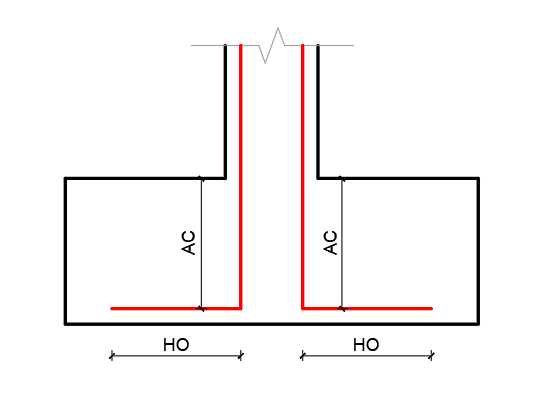
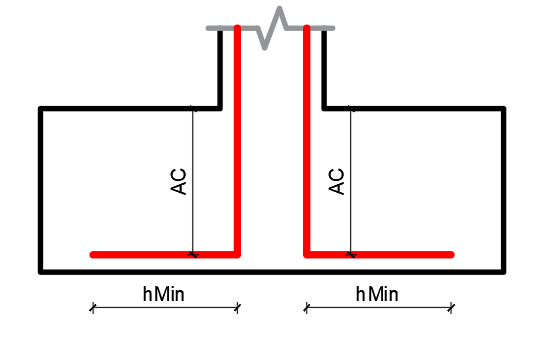
update

Changed region(s): [[0.0596, 0.0, 0.9236, 0.9145]]

diff --git a/LSTool/Tools/Generals/SettingRebarStandard/views/SettingRebarStandardView.xaml b/LSTool/Tools/Generals/SettingRebarStandard/views/SettingRebarStandardView.xaml
@@ -7,8 +7,10 @@
         mc:Ignorable="d"
         Title="SettingRebarStandardView" 
         WindowStartupLocation="CenterScreen"
-        Height="500" 
-        Width="500">
+        ResizeMode="NoResize"
+        MinHeight="550" 
+        SizeToContent="Height"
+        Width="600">
     <Grid Margin="10">
         <Grid.RowDefinitions>
             <RowDefinition/>
@@ -30,6 +32,7 @@
                                     <ColumnDefinition Width="50"/>
                                 </Grid.ColumnDefinitions>
                                 <TextBox 
+                                    DataContext="{Binding SettingRebarStandardModel}"
                                     Text="{Binding L1}"
                                     Margin="0,5,0,0"
                                     VerticalContentAlignment="Center"
@@ -49,6 +52,7 @@
                                     <ColumnDefinition Width="50"/>
                                 </Grid.ColumnDefinitions>
                                 <TextBox 
+                                    DataContext="{Binding SettingRebarStandardModel}"
                                     Text="{Binding G}"
                                     Margin="0,5,0,0"
                                     VerticalContentAlignment="Center"
@@ -81,6 +85,7 @@
                                     <ColumnDefinition Width="50"/>
                                 </Grid.ColumnDefinitions>
                                 <TextBox 
+                                    DataContext="{Binding SettingRebarStandardModel}"
                                     Text="{Binding L2}"
                                     Margin="0,5,0,0"
                                     VerticalContentAlignment="Center"
@@ -100,6 +105,7 @@
                                     <ColumnDefinition Width="50"/>
                                 </Grid.ColumnDefinitions>
                             <TextBox 
+                                DataContext="{Binding SettingRebarStandardModel}"
                                 Text="{Binding HMin}"
                                 Margin="0,5,0,0"
                                 VerticalContentAlignment="Center"

diff --git a/LSTool/Tools/Columns/ColumnRebar/views/ColumnRebarView.xaml b/LSTool/Tools/Columns/ColumnRebar/views/ColumnRebarView.xaml
@@ -138,25 +138,21 @@
                     </Grid>
                 </Grid>
             </TabItem>
-            <TabItem Header="Anchol Info">
+            <TabItem Header="Anchor Info">
                 <Grid Margin="10">
                     <Grid.ColumnDefinitions>
                         <ColumnDefinition Width="300"/>
                         <ColumnDefinition/>
                     </Grid.ColumnDefinitions>
                     <StackPanel 
-                    Margin="0,0,10,0">
+                        VerticalAlignment="Center"
+                        Margin="0,0,10,0">
                         <StackPanel>
                             <TextBlock
                             Text="AC"/>
                             <TextBox
-                            Text="{Binding AC}"/>
-                        </StackPanel>
-                        <StackPanel Margin="0,10,0,0">
-                            <TextBlock
-                            Text="HO"/>
-                            <TextBox
-                            Text="{Binding HO}"/>
+                                DataContext="{Binding ColumnRebarAnchorModelUI}"
+                                Text="{Binding AC}"/>
                         </StackPanel>
                     </StackPanel>
                     <Image 

diff --git a/LSTool/Tools/Columns/ColumnRebar/actions/ColumnRebarAnchorAction.cs b/LSTool/Tools/Columns/ColumnRebar/actions/ColumnRebarAnchorAction.cs
@@ -1,0 +1,45 @@
+using Autodesk.Revit.UI;
+using LSTool.Tools.Columns.ColumnRebar.models;
+using Newtonsoft.Json;
+
+namespace LSTool.Tools.Columns.ColumnRebar.actions
+{
+    public class ColumnRebarAnchorAction
+    {
+        private UIDocument _uidocument;
+        private Document _document;
+        private ColumnRebarAnchorSchema _columnRebarAnchorSchema;
+        public ColumnRebarAnchorAction(UIDocument uidocument)
+        {
+            _uidocument = uidocument;
+            _document = _uidocument.Document;
+            _columnRebarAnchorSchema = new ColumnRebarAnchorSchema(
+                ColumnRebarAnchorSchema.GUID,
+                ColumnRebarAnchorSchema.NAME);
+        }
+        public ColumnRebarAnchorModelUI GetColumnRebarAnchor()
+        {
+            var result = new ColumnRebarAnchorModelUI() { AC = 500 };
+            var content = _columnRebarAnchorSchema.Read(_document.ProjectInformation);
+            if (string.IsNullOrEmpty(content)) return result;
+            var obj = JsonConvert.DeserializeObject<ColumnRebarAnchorModel>(content);
+            if (obj == null) return result;
+            result.AC = obj.AC;
+            return result;
+        }
+        public void SaveColumnRebarAnchor(ColumnRebarAnchorModelUI obj)
+        {
+            using (var ts = new SubTransaction(_document))
+            {
+                ts.Start();
+                var ele = new ColumnRebarAnchorModel()
+                {
+                    AC = obj.AC,
+                };
+                var content = JsonConvert.SerializeObject(ele);
+                _columnRebarAnchorSchema.Write(_document.ProjectInformation, content);
+                ts.Commit();
+            }
+        }
+    }
+}

diff --git a/LSTool/Tools/Generals/SettingRebarStandard/actions/SettingRebarStandardAction.cs b/LSTool/Tools/Generals/SettingRebarStandard/actions/SettingRebarStandardAction.cs
@@ -17,6 +17,9 @@ namespace LSTool.Tools.Generals.SettingRebarStandard.actions
         {
             _uidocument = uidocument;
             _document = _uidocument.Document;
+            _settingRebarSchema = new SettingRebarStandardSchema(
+                SettingRebarStandardSchema.GUID,
+                SettingRebarStandardSchema.NAME);
             _viewModel = new SettingRebarStandardVM()
             {
                 SettingRebarStandardModel = GetSetting(),
@@ -24,9 +27,6 @@ namespace LSTool.Tools.Generals.SettingRebarStandard.actions
                 CancelCommand = new RelayCommand(_CancelCommand)
             };
             _view = new SettingRebarStandardView() { DataContext = _viewModel };
-            _settingRebarSchema = new SettingRebarStandardSchema(
-                SettingRebarStandardSchema.GUID,
-                SettingRebarStandardSchema.NAME);
         }
 
         private void _CancelCommand()

diff --git a/LSTool/Tools/Generals/SettingRebarStandard/SettingRebarStandardCmd.cs b/LSTool/Tools/Generals/SettingRebarStandard/SettingRebarStandardCmd.cs
@@ -1,5 +1,6 @@
 using Autodesk.Revit.Attributes;
 using Autodesk.Revit.UI;
+using LSTool.Tools.Generals.SettingRebarStandard.actions;
 using LSTool.Utils;
 
 namespace LSTool.Tools.Generals.SettingRebarStandard
@@ -17,6 +18,8 @@ namespace LSTool.Tools.Generals.SettingRebarStandard
                 tsg.Start();
                 try
                 {
+                    var action = new SettingRebarStandardAction(uiDocument);
+                    action.Execute();
                     tsg.Assimilate();
                 }
                 catch (Autodesk.Revit.Exceptions.OperationCanceledException) { }

diff --git a/LSTool/Tools/Columns/ColumnRebar/models/ColumnRebarAnchorModel.cs b/LSTool/Tools/Columns/ColumnRebar/models/ColumnRebarAnchorModel.cs
@@ -1,0 +1,22 @@
+namespace LSTool.Tools.Columns.ColumnRebar.models
+{
+    public class ColumnRebarAnchorModel
+    {
+        public double AC { get; set; }
+    }
+    public partial class ColumnRebarAnchorModelUI : ObservableObject
+    {
+        private double _aC;
+        public double AC
+        {
+            get => _aC;
+            set
+            {
+                _aC = value;
+                OnPropertyChanged();
+                ACAction?.Invoke(this);
+            }
+        }
+        public Action<ColumnRebarAnchorModelUI> ACAction { get; set; }
+    }
+}

diff --git a/LSTool/Tools/Generals/SettingDiameters/action/RebarDatabasesAction.cs b/LSTool/Tools/Generals/SettingDiameters/action/RebarDatabasesAction.cs
@@ -30,7 +30,7 @@ namespace LSTool.Tools.Generals.SettingDiameters.action
                 ResetCommand = new RelayCommand(_ResetCommand),
                 CancelCommand = new RelayCommand(_CancelCommand),
             };
-            //_viewModel.RebarBarTypes = new ObservableCollection<RebarBarTypeModel>(GetRebarBarTypes());
+            _viewModel.RebarBarTypes = new ObservableCollection<RebarBarTypeModel>(GetRebarBarTypes());
             _view = new RebarDatabasesView() { DataContext = _viewModel };
         }
 

diff --git a/LSTool/Tools/Columns/ColumnRebar/models/ColumnRebarAnchorSchema.cs b/LSTool/Tools/Columns/ColumnRebar/models/ColumnRebarAnchorSchema.cs
@@ -1,0 +1,13 @@
+using LSTool.Cores;
+
+namespace LSTool.Tools.Columns.ColumnRebar.models
+{
+    public class ColumnRebarAnchorSchema : SchemaEntityBase
+    {
+        public const string GUID = "c61e0e53-2941-440b-b61b-c80f80e80159";
+        public const string NAME = "ColumnRebarAnchorSchema";
+        public ColumnRebarAnchorSchema(string guid, string name) : base(guid, name)
+        {
+        }
+    }
+}

diff --git a/LSTool/Tools/Columns/ColumnRebar/viewModels/ColumnRebarVM.cs b/LSTool/Tools/Columns/ColumnRebar/viewModels/ColumnRebarVM.cs
@@ -18,6 +18,7 @@ namespace LSTool.Tools.Columns.ColumnRebar.viewModels
             }
         }
         public Action ColumnConcreteModelAction { get; set; }
+        public ColumnRebarAnchorModelUI ColumnRebarAnchorModelUI { get; set; }
         public RelayCommand OkCommand { get; set; }
         public RelayCommand CancelCommand { get; set; }
     }
